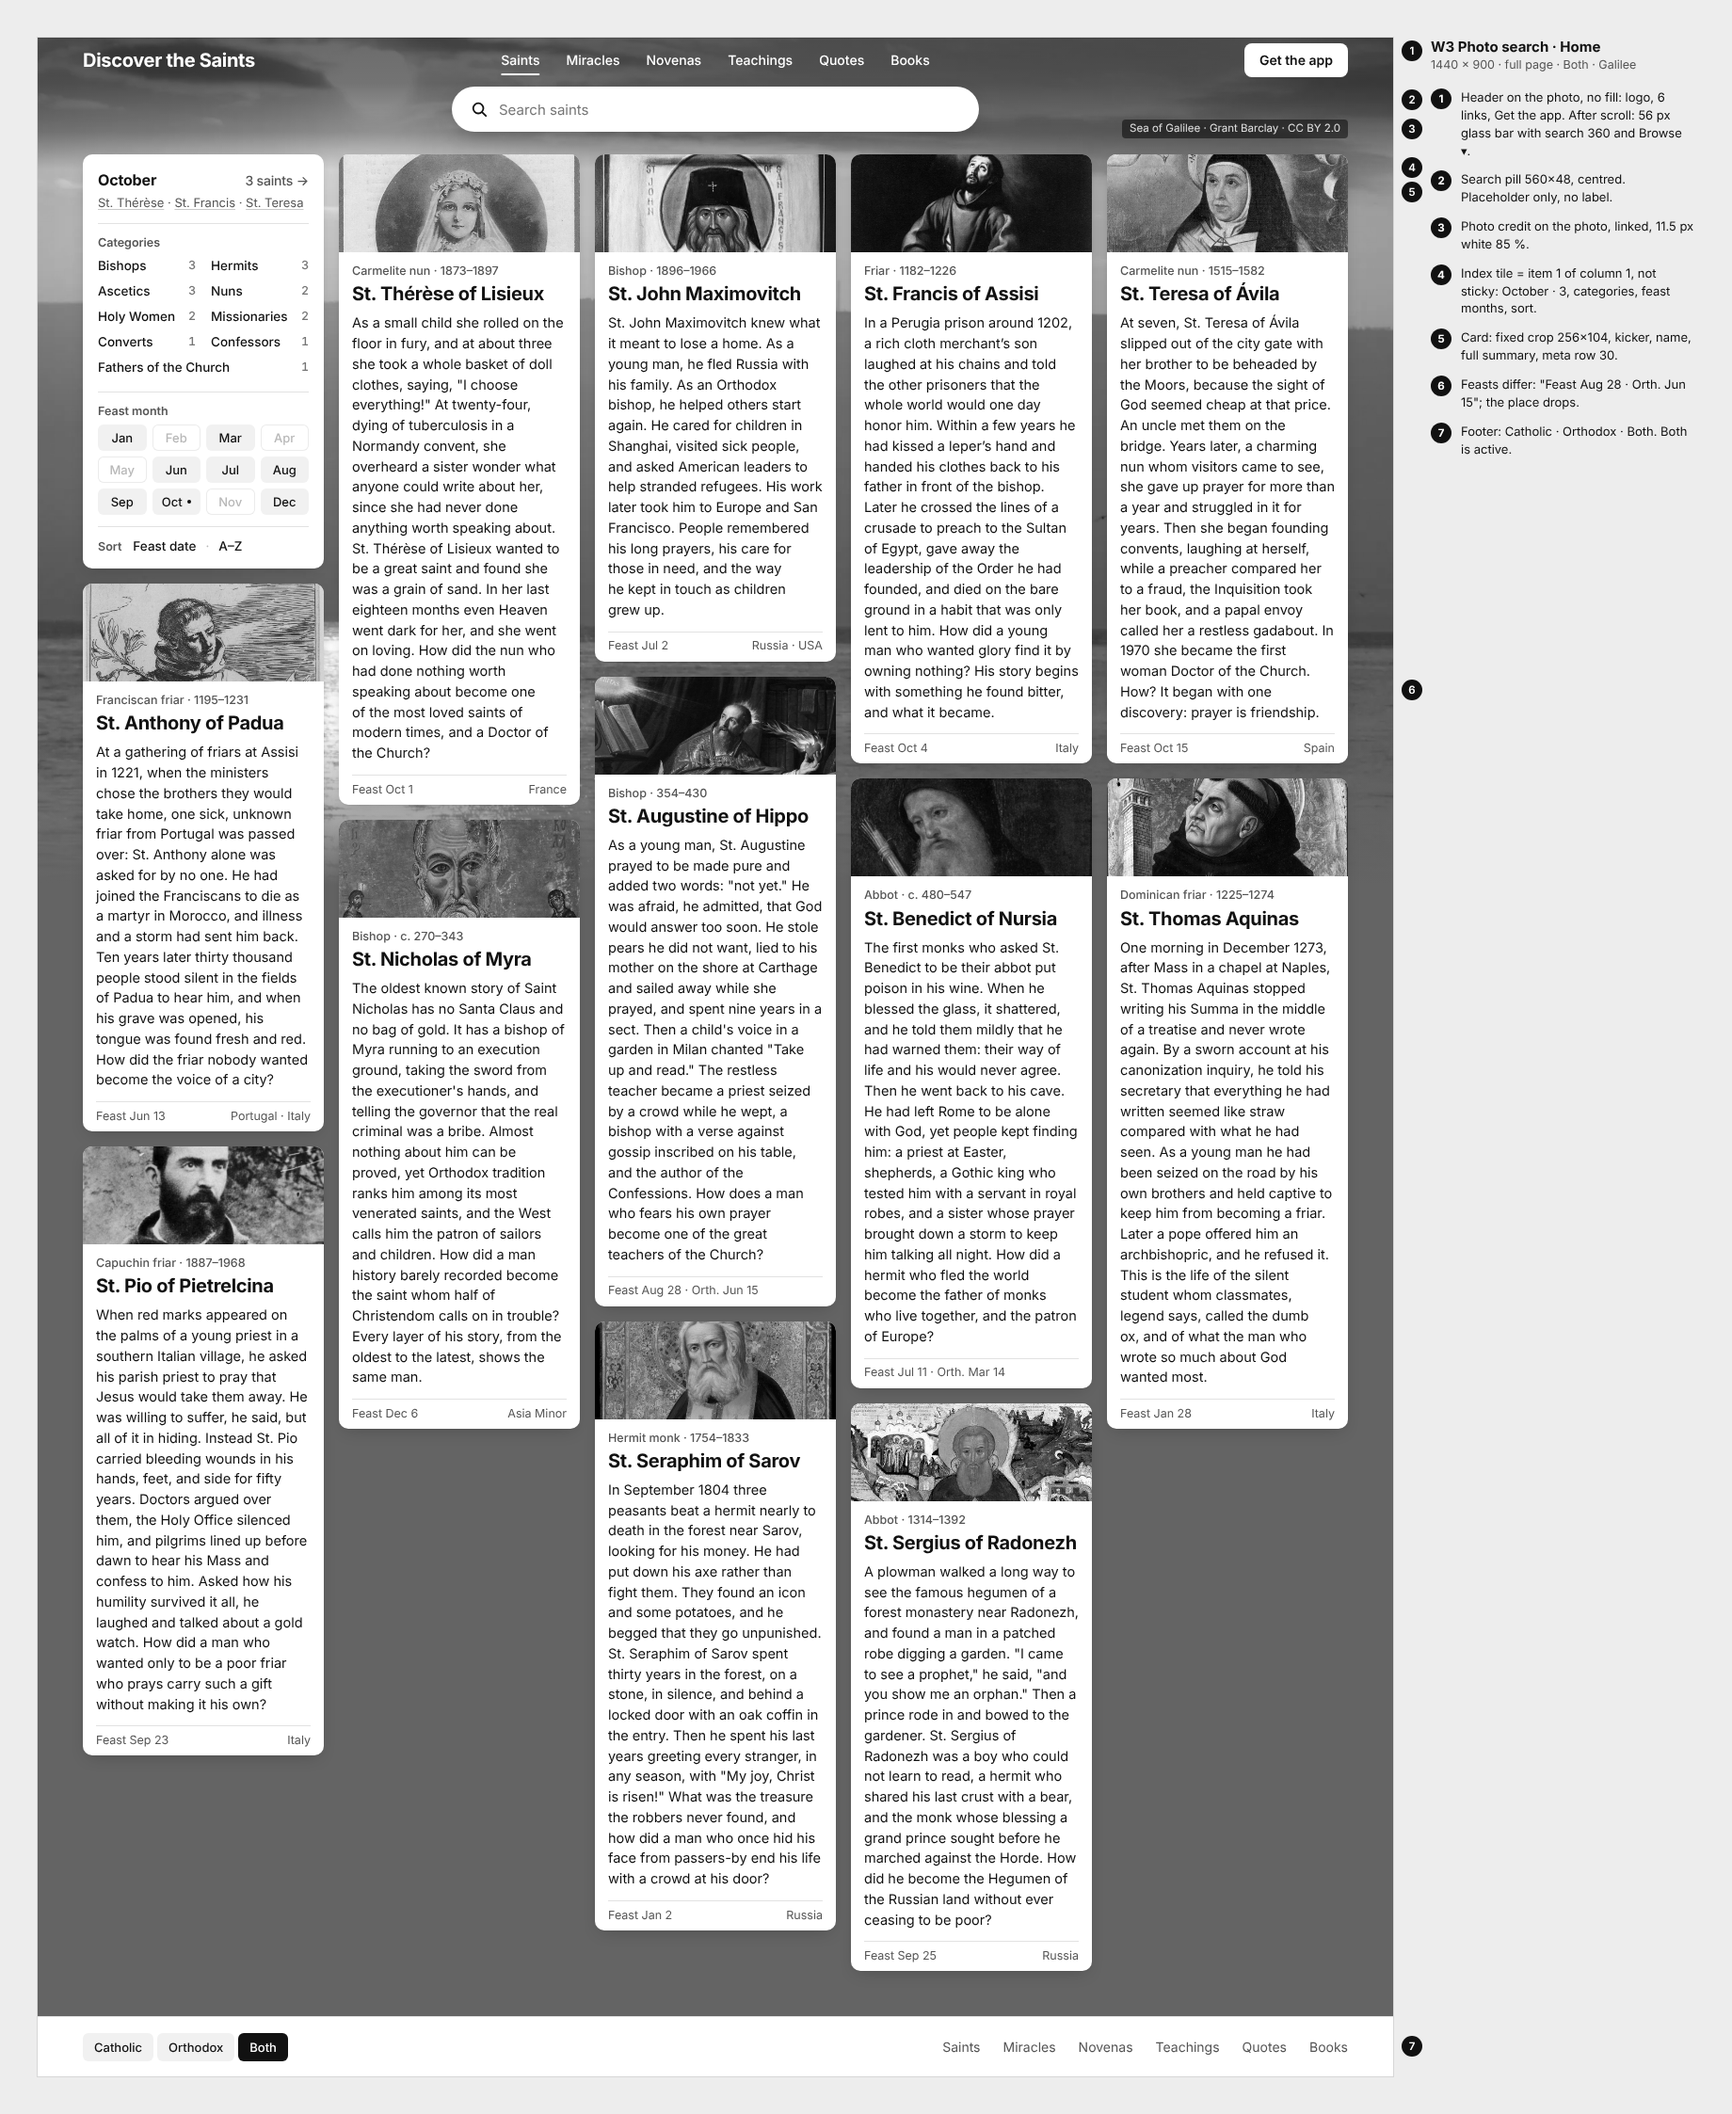
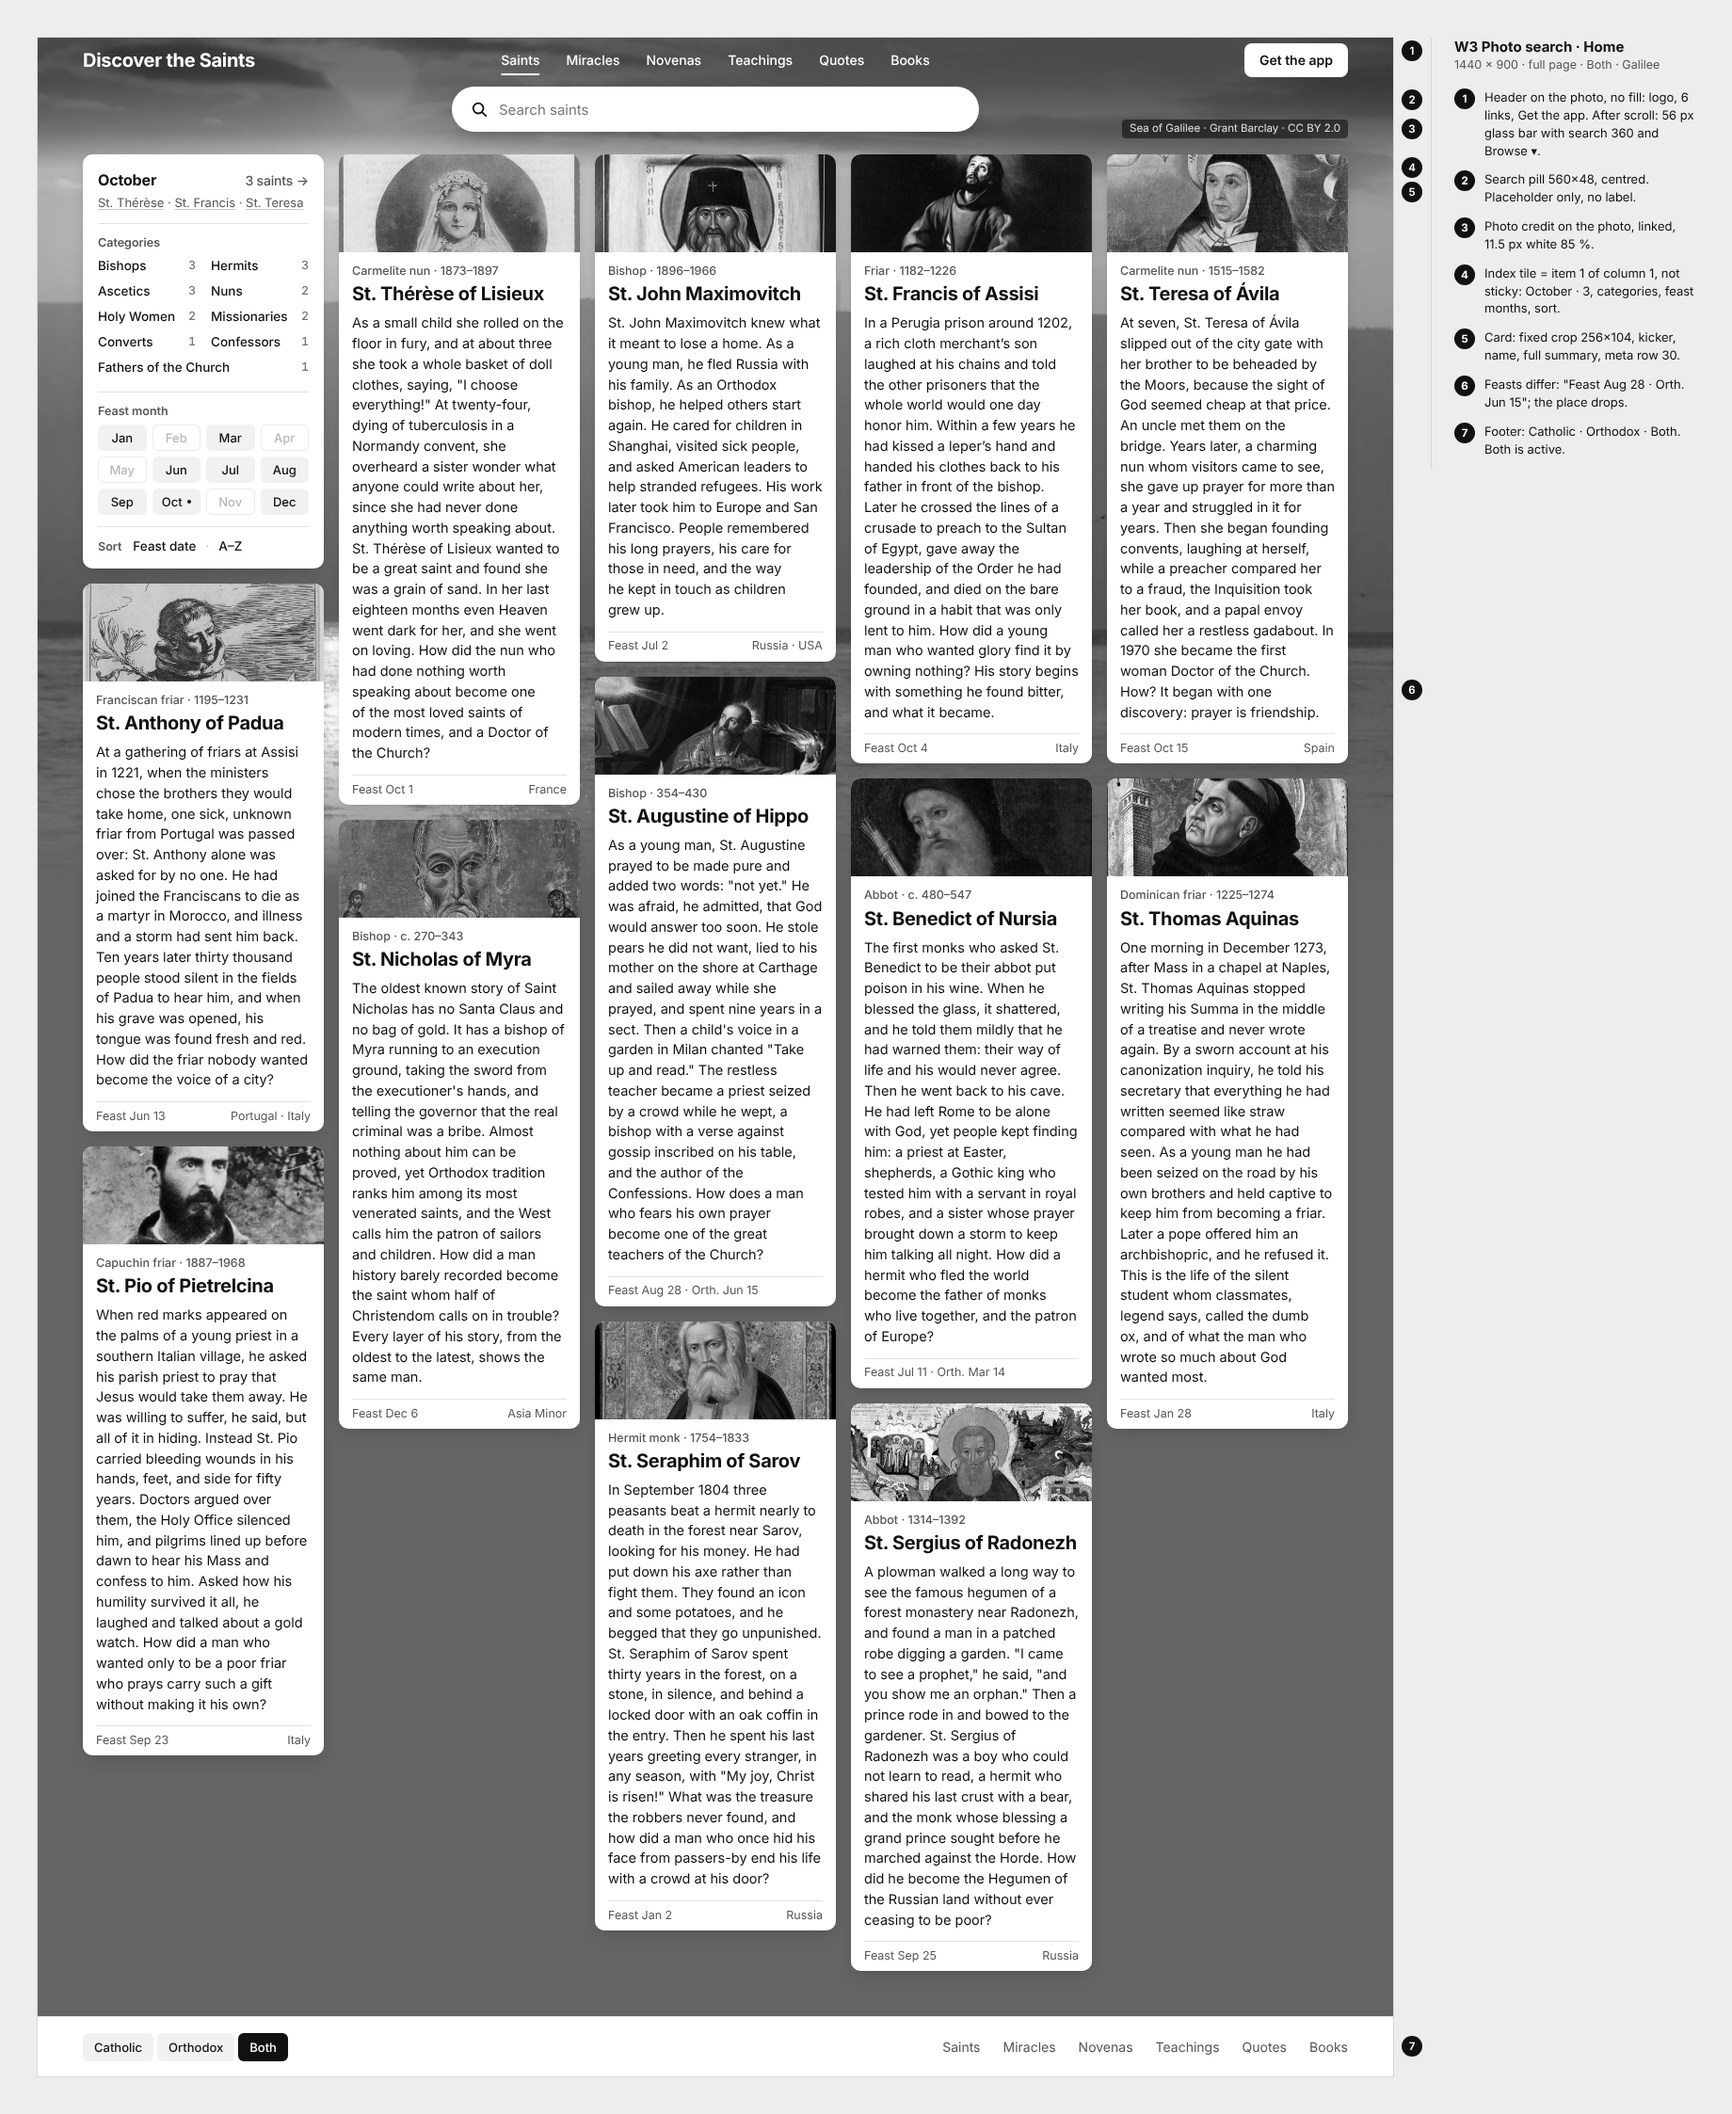
WIP: builder updates (W3, B4 in progress)
Claude-Session: https://claude.ai/code/session_01HYV1PYXxMKUUhdcwMugypU

Changed region(s): [[0.8054, 0.0, 0.9603, 0.2182]]

diff --git a/prototypes/wireframes/w3/.board-tmp.html b/prototypes/wireframes/w3/.board-tmp.html
@@ -1,8 +1,8 @@
 <!doctype html><html><head><meta charset="utf-8"><link href="https://fonts.googleapis.com/css2?family=Inter:wght@400;500;600;700&display=swap" rel="stylesheet"><style>
   body{margin:0;background:#EDEDED;font-family:Inter,sans-serif;color:#111}
   .ab{display:flex;padding:40px;gap:0;align-items:flex-start}
-  .pg{width:1440px;height:2166px;flex:none;box-shadow:0 0 0 1px #D6D6D6;background:url('file:///home/user/BioCMS/prototypes/shots/round1/w3-home-1440-full.png') 0 0/1440px auto no-repeat}
-  .gap{position:relative;width:40px;height:2166px;flex:none}
+  .pg{width:375px;height:6667px;flex:none;box-shadow:0 0 0 1px #D6D6D6;background:url('file:///home/user/BioCMS/prototypes/shots/round1/w3-home-375-full.png') 0 0/375px auto no-repeat}
+  .gap{position:relative;width:40px;height:6667px;flex:none}
   .gap i{position:absolute;left:9px;width:22px;height:22px;border-radius:50%;background:#111;color:#fff;font:600 11.5px/22px Inter;text-align:center;font-style:normal}
   .lg{width:280px;flex:none;box-sizing:border-box;padding-left:24px;border-left:1px solid #D6D6D6}
   h1{font-size:15px;font-weight:700;margin:0 0 2px}
@@ -10,5 +10,5 @@
   ol{list-style:none;margin:0;padding:0}
   li{display:flex;gap:10px;font-size:13px;line-height:1.45;margin-bottom:12px}
   li b{flex:none;width:22px;height:22px;border-radius:50%;background:#111;color:#fff;font-size:11.5px;line-height:22px;text-align:center}
-  </style></head><body><div class="ab"><div class="pg"></div><div class="gap"><i style="top:3px">1</i><i style="top:55px">2</i><i style="top:86px">3</i><i style="top:127px">4</i><i style="top:153px">5</i><i style="top:681.5px">6</i><i style="top:2122.75px">7</i></div><div class="lg">
-  <h1>W3 Photo search · Home</h1><p class="sub">1440 × 900 · full page · Both · Galilee</p><ol><li><b>1</b><span>Header on the photo, no fill: logo, 6 links, Get the app. After scroll: 56 px glass bar with search 360 and Browse ▾.</span></li><li><b>2</b><span>Search pill 560×48, centred. Placeholder only, no label.</span></li><li><b>3</b><span>Photo credit on the photo, linked, 11.5 px white 85 %.</span></li><li><b>4</b><span>Index tile = item 1 of column 1, not sticky: October · 3, categories, feast months, sort.</span></li><li><b>5</b><span>Card: fixed crop 256×104, kicker, name, full summary, meta row 30.</span></li><li><b>6</b><span>Feasts differ: "Feast Aug 28 · Orth. Jun 15"; the place drops.</span></li><li><b>7</b><span>Footer: Catholic · Orthodox · Both. Both is active.</span></li></ol></div></div></body></html>
+  </style></head><body><div class="ab"><div class="pg"></div><div class="gap"><i style="top:3px">1</i><i style="top:75px">2</i><i style="top:126px">3</i><i style="top:159px">4</i><i style="top:6498.5625px">5</i><i style="top:6614px">6</i></div><div class="lg">
+  <h1>W3 Photo search · Home</h1><p class="sub">375 × 812 · full page · Both · Galilee</p><ol><li><b>1</b><span>Header 52: mark, name, menu. After scroll, the search moves into it.</span></li><li><b>2</b><span>Search pill 343×44 on the photo.</span></li><li><b>3</b><span>Photo credit on the photo.</span></li><li><b>4</b><span>Plain rows: kicker, name, crop 343×96, full summary, meta. Hairlines.</span></li><li><b>5</b><span>Footer: tradition switch, nav.</span></li><li><b>6</b><span>Fixed bar 56: Saints · Feasts · Categories · Sort. Each opens a sheet.</span></li></ol></div></div></body></html>
